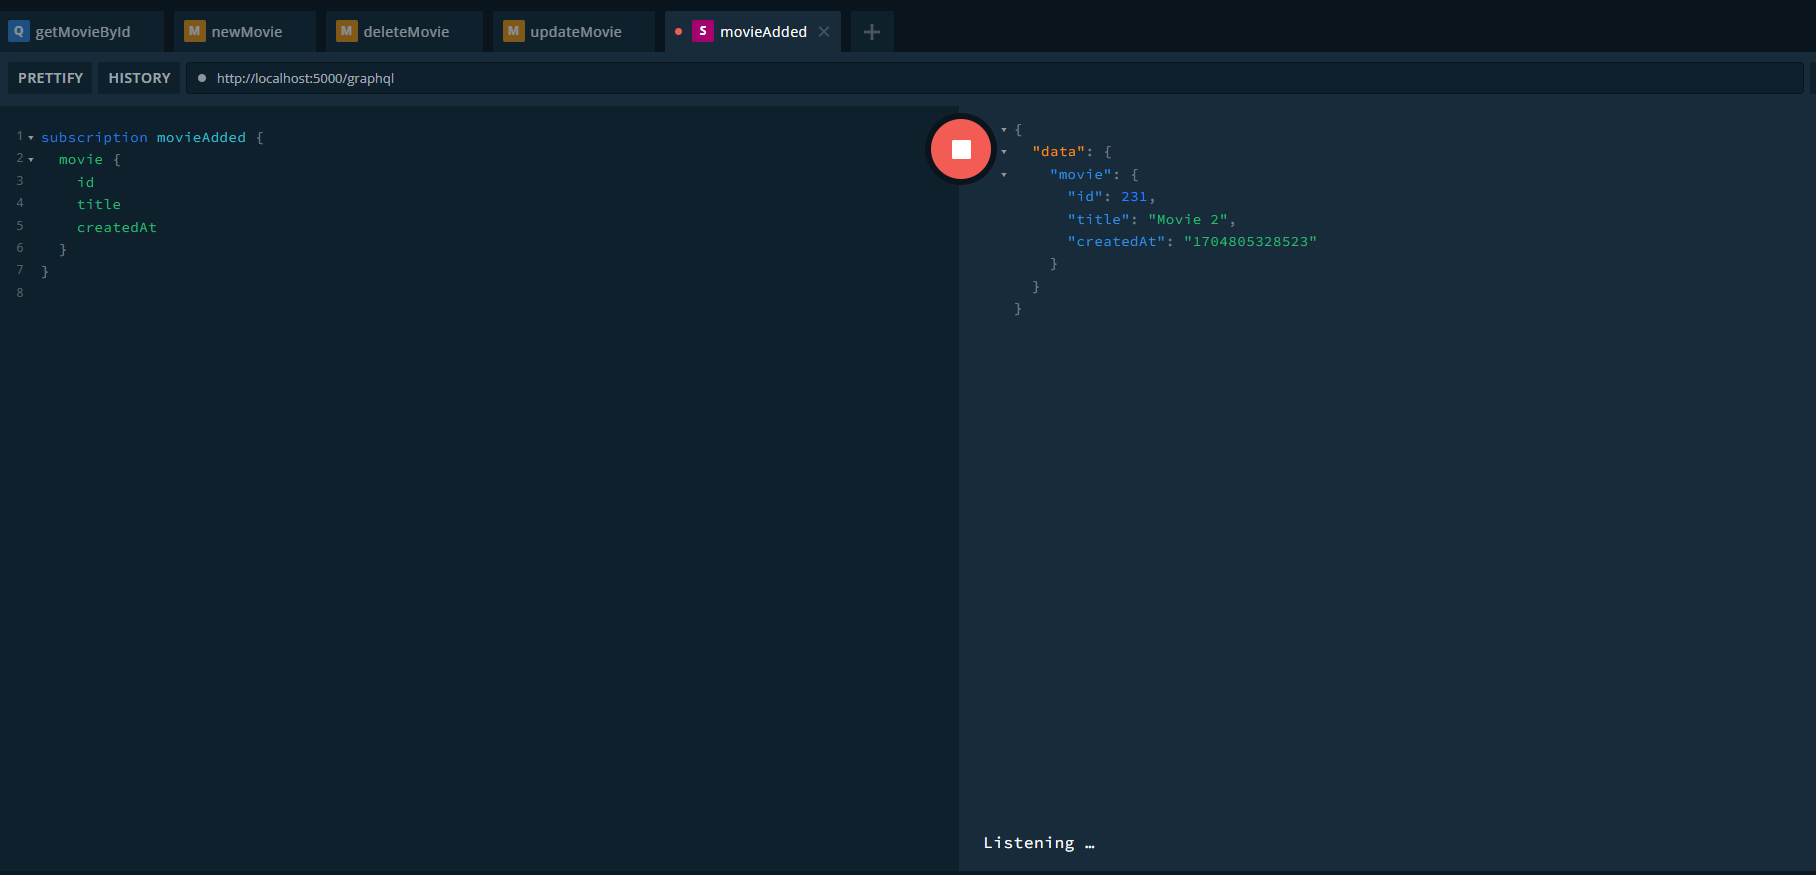
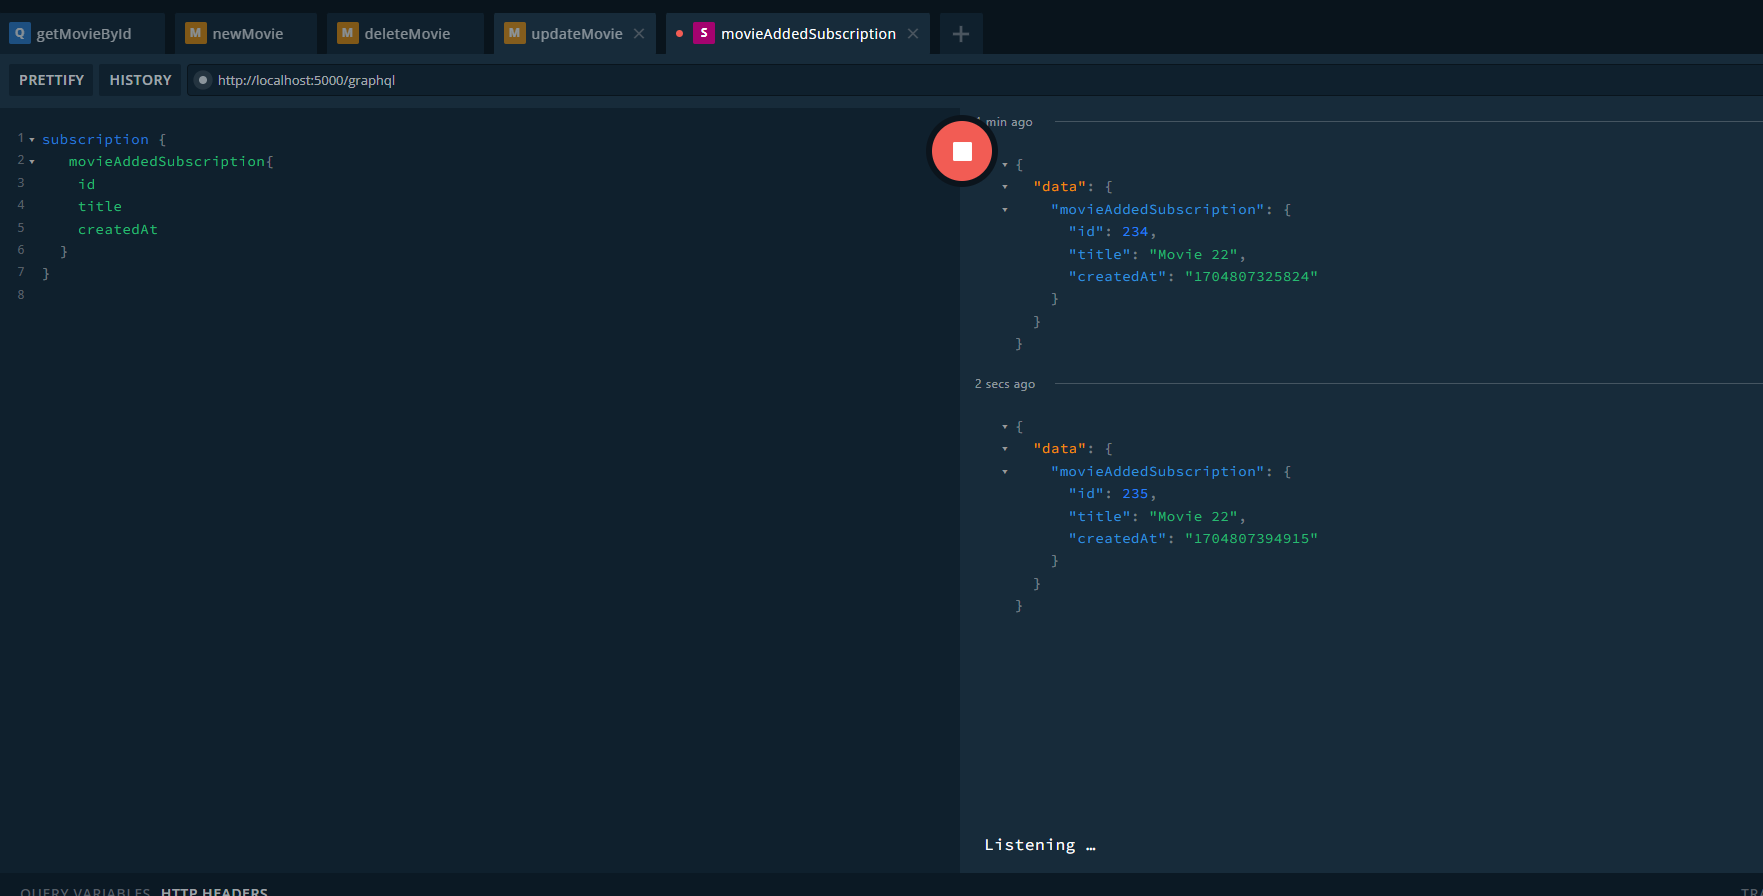
Defined PubSub as a provider and injected it through the constructor (using the @Inject() decorator)

diff --git a/api/src/movie/movie.resolver.ts b/api/src/movie/movie.resolver.ts
@@ -8,23 +8,23 @@ import {
   Resolver,
   Subscription,
 } from '@nestjs/graphql';
-import { PubSub } from 'graphql-subscriptions';
 
 import { MovieInputCreate, MovieInputEdit } from './movie.input';
 import { Movie } from './movie.model';
 import { MovieService } from './movie.service';
 import { MovieCommentService } from '../movie-comment/movie-comment.service';
 import { MovieComment } from '../movie-comment/movie-comment.model';
+import { Inject } from '@nestjs/common';
+import { PubSub } from 'graphql-subscriptions';
 
 const MOVIE_ADDED_EVENT = 'movieAdded';
-
-const pubSub = new PubSub();
 
 @Resolver(() => Movie)
 export class MovieResolver {
   constructor(
     private movieService: MovieService,
     private movieCommentService: MovieCommentService,
+    @Inject('PUB_SUB') private pubSub: PubSub,
   ) {}
 
   @Query(() => [Movie])
@@ -46,7 +46,7 @@ export class MovieResolver {
     // return this.movieService.createMovie(movieInputCreate);
 
     const newMovie = this.movieService.createMovie(movieInputCreate);
-    await pubSub.publish(MOVIE_ADDED_EVENT, {
+    await this.pubSub.publish(MOVIE_ADDED_EVENT, {
       movieAddedSubscription: newMovie,
     });
 
@@ -77,6 +77,6 @@ export class MovieResolver {
     name: 'movieAddedSubscription',
   })
   movieAdded() {
-    return pubSub.asyncIterator(MOVIE_ADDED_EVENT);
+    return this.pubSub.asyncIterator(MOVIE_ADDED_EVENT);
   }
 }

diff --git a/api/src/movie/movie.module.ts b/api/src/movie/movie.module.ts
@@ -1,4 +1,5 @@
 import { forwardRef, Module } from '@nestjs/common';
+import { PubSub } from 'graphql-subscriptions';
 
 import { MovieService } from './movie.service';
 import { PrismaService } from '../../prisma/prisma.service';
@@ -7,7 +8,15 @@ import { MovieCommentModule } from '../movie-comment/movie-comment.module';
 
 @Module({
   imports: [forwardRef(() => MovieCommentModule)],
-  providers: [MovieResolver, MovieService, PrismaService],
+  providers: [
+    MovieResolver,
+    MovieService,
+    PrismaService,
+    {
+      provide: 'PUB_SUB',
+      useValue: new PubSub(),
+    },
+  ],
   controllers: [],
   exports: [MovieResolver, MovieService],
 })

diff --git a/api/src/app.module.ts b/api/src/app.module.ts
@@ -12,7 +12,7 @@ import { MovieCommentModule } from './movie-comment/movie-comment.module';
       driver: ApolloDriver,
       autoSchemaFile: true,
       subscriptions: {
-        "graphql-ws": true,
+        'graphql-ws': true,
         'subscriptions-transport-ws': true,
       },
     }),
